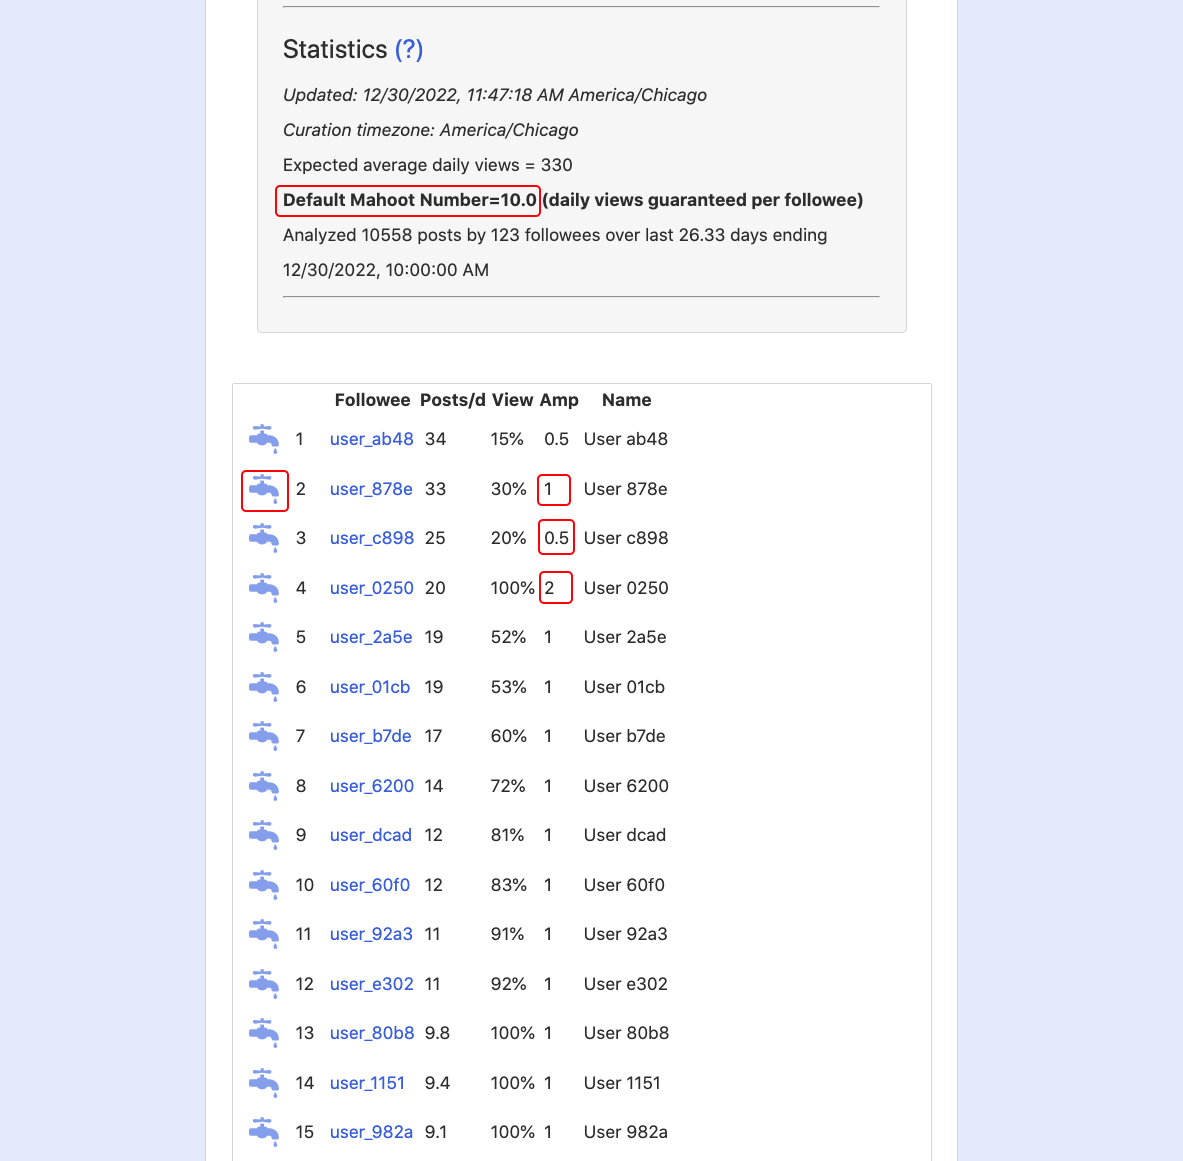
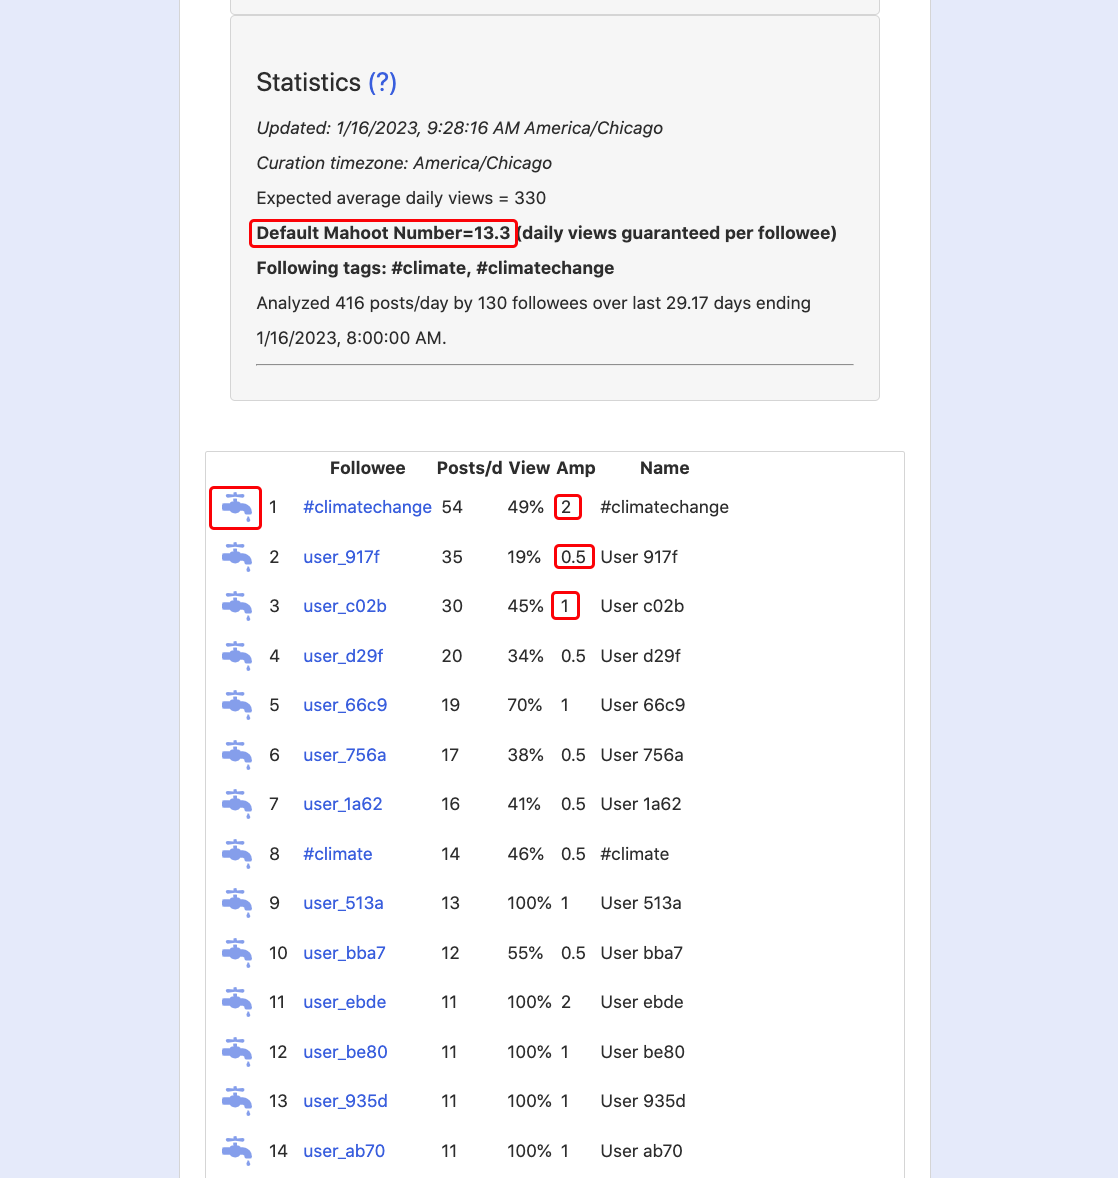
v0.4.0 with edition layout and docs updated

diff --git a/src/routes/_curation/curationGeneral.js b/src/routes/_curation/curationGeneral.js
@@ -4,9 +4,9 @@ import { zeropad, offsetDaysInDate, nextTimeInterval } from './curationStore.js'
 
 import { USER_FOLLOW_UPDATE, getSummary, setSummary, getSummaryKey, newUserFollow } from './curationCache.js'
 
-export const MAHOOT_CODE_VERSION = '0.3.13'
+export const MAHOOT_CODE_VERSION = '0.4.0'
 
-export const MAHOOT_DATA_VERSION = '0.3'
+export const MAHOOT_DATA_VERSION = '0.4'
 
 export const UPDATE_INTERVAL_MINUTES = 120 // Interval for updating status summaries
 

diff --git a/docs/MahootUserGuide.md b/docs/MahootUserGuide.md
@@ -1,10 +1,12 @@
 # Mahoot User Guide
 
-Version 0.3.12
+Version 0.4.0
 
 - [Getting started](#getting-started)
 
 - [Basic settings](#basic-settings)
+
+- [Following hashtags](#following-hashtags)
 
 - [Posting statistics](#posting-statistics)
 
@@ -89,6 +91,27 @@ For settings like this involving numbers or text, click the *Update* button furt
 <em>Update button</em>
 </p>
 
+## Following hashtags
+
+Mastodon allows you to follow hashtags (like ``#climatechange``) just like you follow users. Mahoot also allows you to curate posts with followed hashtags in the same manner as posts from followed users. This can be very useful because following a popular hashtag can direct a firehose of posts to your feed.
+
+To follow a hashtag, use the search menu from the top bar and type the hashtag you wish to follow:
+
+<p align="center">
+<img src="https://raw.githubusercontent.com/mitotic/pinafore-mahoot/master/docs/images/HashTagSearch.png"
+     alt="Searching for hashtag climate change">
+<br>
+<em>Search for hashtag</em>
+</p>
+
+Then select the hashtag from the search results to go to the hashtag page. The button near the top of the page allows you follow/unfollow the hashtag.
+
+<p align="center">
+<img src="https://raw.githubusercontent.com/mitotic/pinafore-mahoot/master/docs/images/HashtagFollow.png"
+     alt="Hashtag page for climate change showing follow/unfollow button">
+<br>
+<em>Follow/unfollow hashtag</em>
+</p>
 
 ## Posting statistics
 
@@ -103,15 +126,15 @@ For settings like this involving numbers or text, click the *Update* button furt
 
 The posting statistics are displayed at the bottom of the *Settings > Curation* page, sorted in descending order of posts per day (as shown in the example above). (*Note*: When you first start using Mahoot, it may take a few minutes for the statistics to appear.)
 
-By default, Mahoot will guarantee each of your followees a certain number of views (or impressions) per day, known as the *Mahoot Number*. The default Mahoot Number is displayed in the statistics section. It will be typically larger than the number of desired daily views divided by the number of followees, because not all your followees will post that frequently. In the above example, the default Mahoot number is 10 for 123 followees sharing an average of 330 views per day.
+By default, Mahoot will guarantee each of your followees a certain number of views (or impressions) per day, known as the *Mahoot Number*. The default Mahoot Number is displayed in the statistics section. It will be typically larger than the number of desired daily views divided by the number of followees, because not all your followees will post that frequently. In the above example, the default Mahoot number is 13.3 for 130 followees sharing an average of 330 views per day.
 
-The posting statistics for all your followees are displayed in the statistics section, sorted in descending order of posts per day. For each followee, their Mastodon username, average posts per day, post view probability, view amplification factor, and the full name are shown. The amplification factor can be used to allocate more views to a followee. The default amplification factor is 1, but you can increase it or decrease it. Click on the faucet icon on the left to display a pop up menu for any followee.
+The posting statistics for all your followees are displayed in the statistics section, sorted in descending order of posts per day. For each followee, their Mastodon username, average posts per day, post view probability, view amplification factor, and the full name are shown. The amplification factor can be used to allocate more views to a followee. The default amplification factor is 1, but you can increase it or decrease it. Click on the faucet icon on the left to display a pop up menu for any followee. Note that followed hashtags (like ``#climatechange`` above) are curated just like a followed user.
 
 <p align="center">
 <img src="https://raw.githubusercontent.com/mitotic/pinafore-mahoot/master/docs/images/MahootUsers.png"
      alt="Popup information for 3 Mahoot users">
 <br>
-<em>Popup windows showing statistics for the most actively posting followees #2-4. Left user has default amp value. Middle user has been amped down to have half the default Mahoot number, and the right one has been amped up to double the default number. Total posts per day for each followee is shown as the sum of prioritized ("hashtagged") posts plus other posts and reblogs (see Experimental Settings section below). Separate view probabilities are also shown for these two types of posts.</em>
+<em>Popup windows showing statistics for the most actively posting followees #1-3. The top user, <tt>#climatechange</tt>, has an amp value of 2 and therefore has double the default Mahoot number. User #2 has been amped down to have half the default Mahoot number, and user #3 has the default number. Total posts per day for each followee is shown as the sum of prioritized ("hashtagged") posts plus other posts and reblogs (see Experimental Settings section below). Separate view probabilities are also shown for these two types of posts.</em>
 </p>
 
 The popup menu allows you to *amp up* (or *amp down*) a followee, i.e. double or halve their Mahoot number. You can use this feature to amp up your colleagues so that you never miss any of their posts. You can also use it to amp down those who post interesting stuff, but just a bit too much of it every day. Amping up an active followee can lower the default Mahoot number, as all the others followees will get a smaller share of the daily views. (You can increase the daily average limit to compensate for that.)
@@ -210,21 +233,22 @@ You don't have to wait a whole day to read a new digest edition in your feed. Th
 <em>Mahoot simple edition example.</em>
 </p>
 
-The ``Username#tags for auto digest`` option allows you to specify a (comma/space-separated) list of usernames whose posts will be automatically digested and displayed in the next "edition" (excluding posts that are dropped by the Mahoot algorithm). You can append a hashtag to the username to indicate that only those posts with that hashtag will be included in the digest. You can also specify ``*SectionName`` to indicate the start of a named section of the edition, followed by a list of usernames for that section. Here's a sample edition format:
+The ``Digest edition layout`` option allows you to specify a (comma/space-separated) list of usernames whose posts will be automatically digested and displayed in the next "edition" (excluding posts that are dropped by the Mahoot algorithm). You can append a hashtag to the username to indicate that only those posts with that hashtag will be included in the digest. You can also specify ``*SectionName`` to indicate the start of a named section of the edition, followed by a list of usernames for that section. Here's a sample edition layout:
 
     user1, blogger@server2#motx, ...
     *News
     journal@server3, reporter@server4#politics, ...
     *Science
-    scientist@server5#climate, doctor@server6#motx, ...
+    columnist@server5#motx, scientist@server6#climate, #climatechange, ...
     *Opinion
     pundit@server7, opinionated@server8, ...
 
-Editions can be considered as a single-feed alternative to Mastodon Lists. More sophisticated ways to format editions can be expected in the future.
 - Note 1: Empty editions will appear as just a thick line
-- Note 2: For users on your server, ``@server`` is omitted from the username
+- Note 2: For users on your Mastodon server, ``@server`` should be omitted from the username
 - Note 3: Suffix ``#motx`` indicates all periodic posts from the user should be inlcuded in the edition, as explained below
+- Note 4: Plain hashtag ``#climatechange`` indicates all non-dropped and non-reply posts on the topic should be included in the edition (assuming you are following ``#climatechange``)
 
+Editions can be considered as a single-feed alternative to Mastodon Lists. More sophisticated ways to format editions can be expected in the future.
 
 ### Periodic posts (message of the day/week/month)
 
